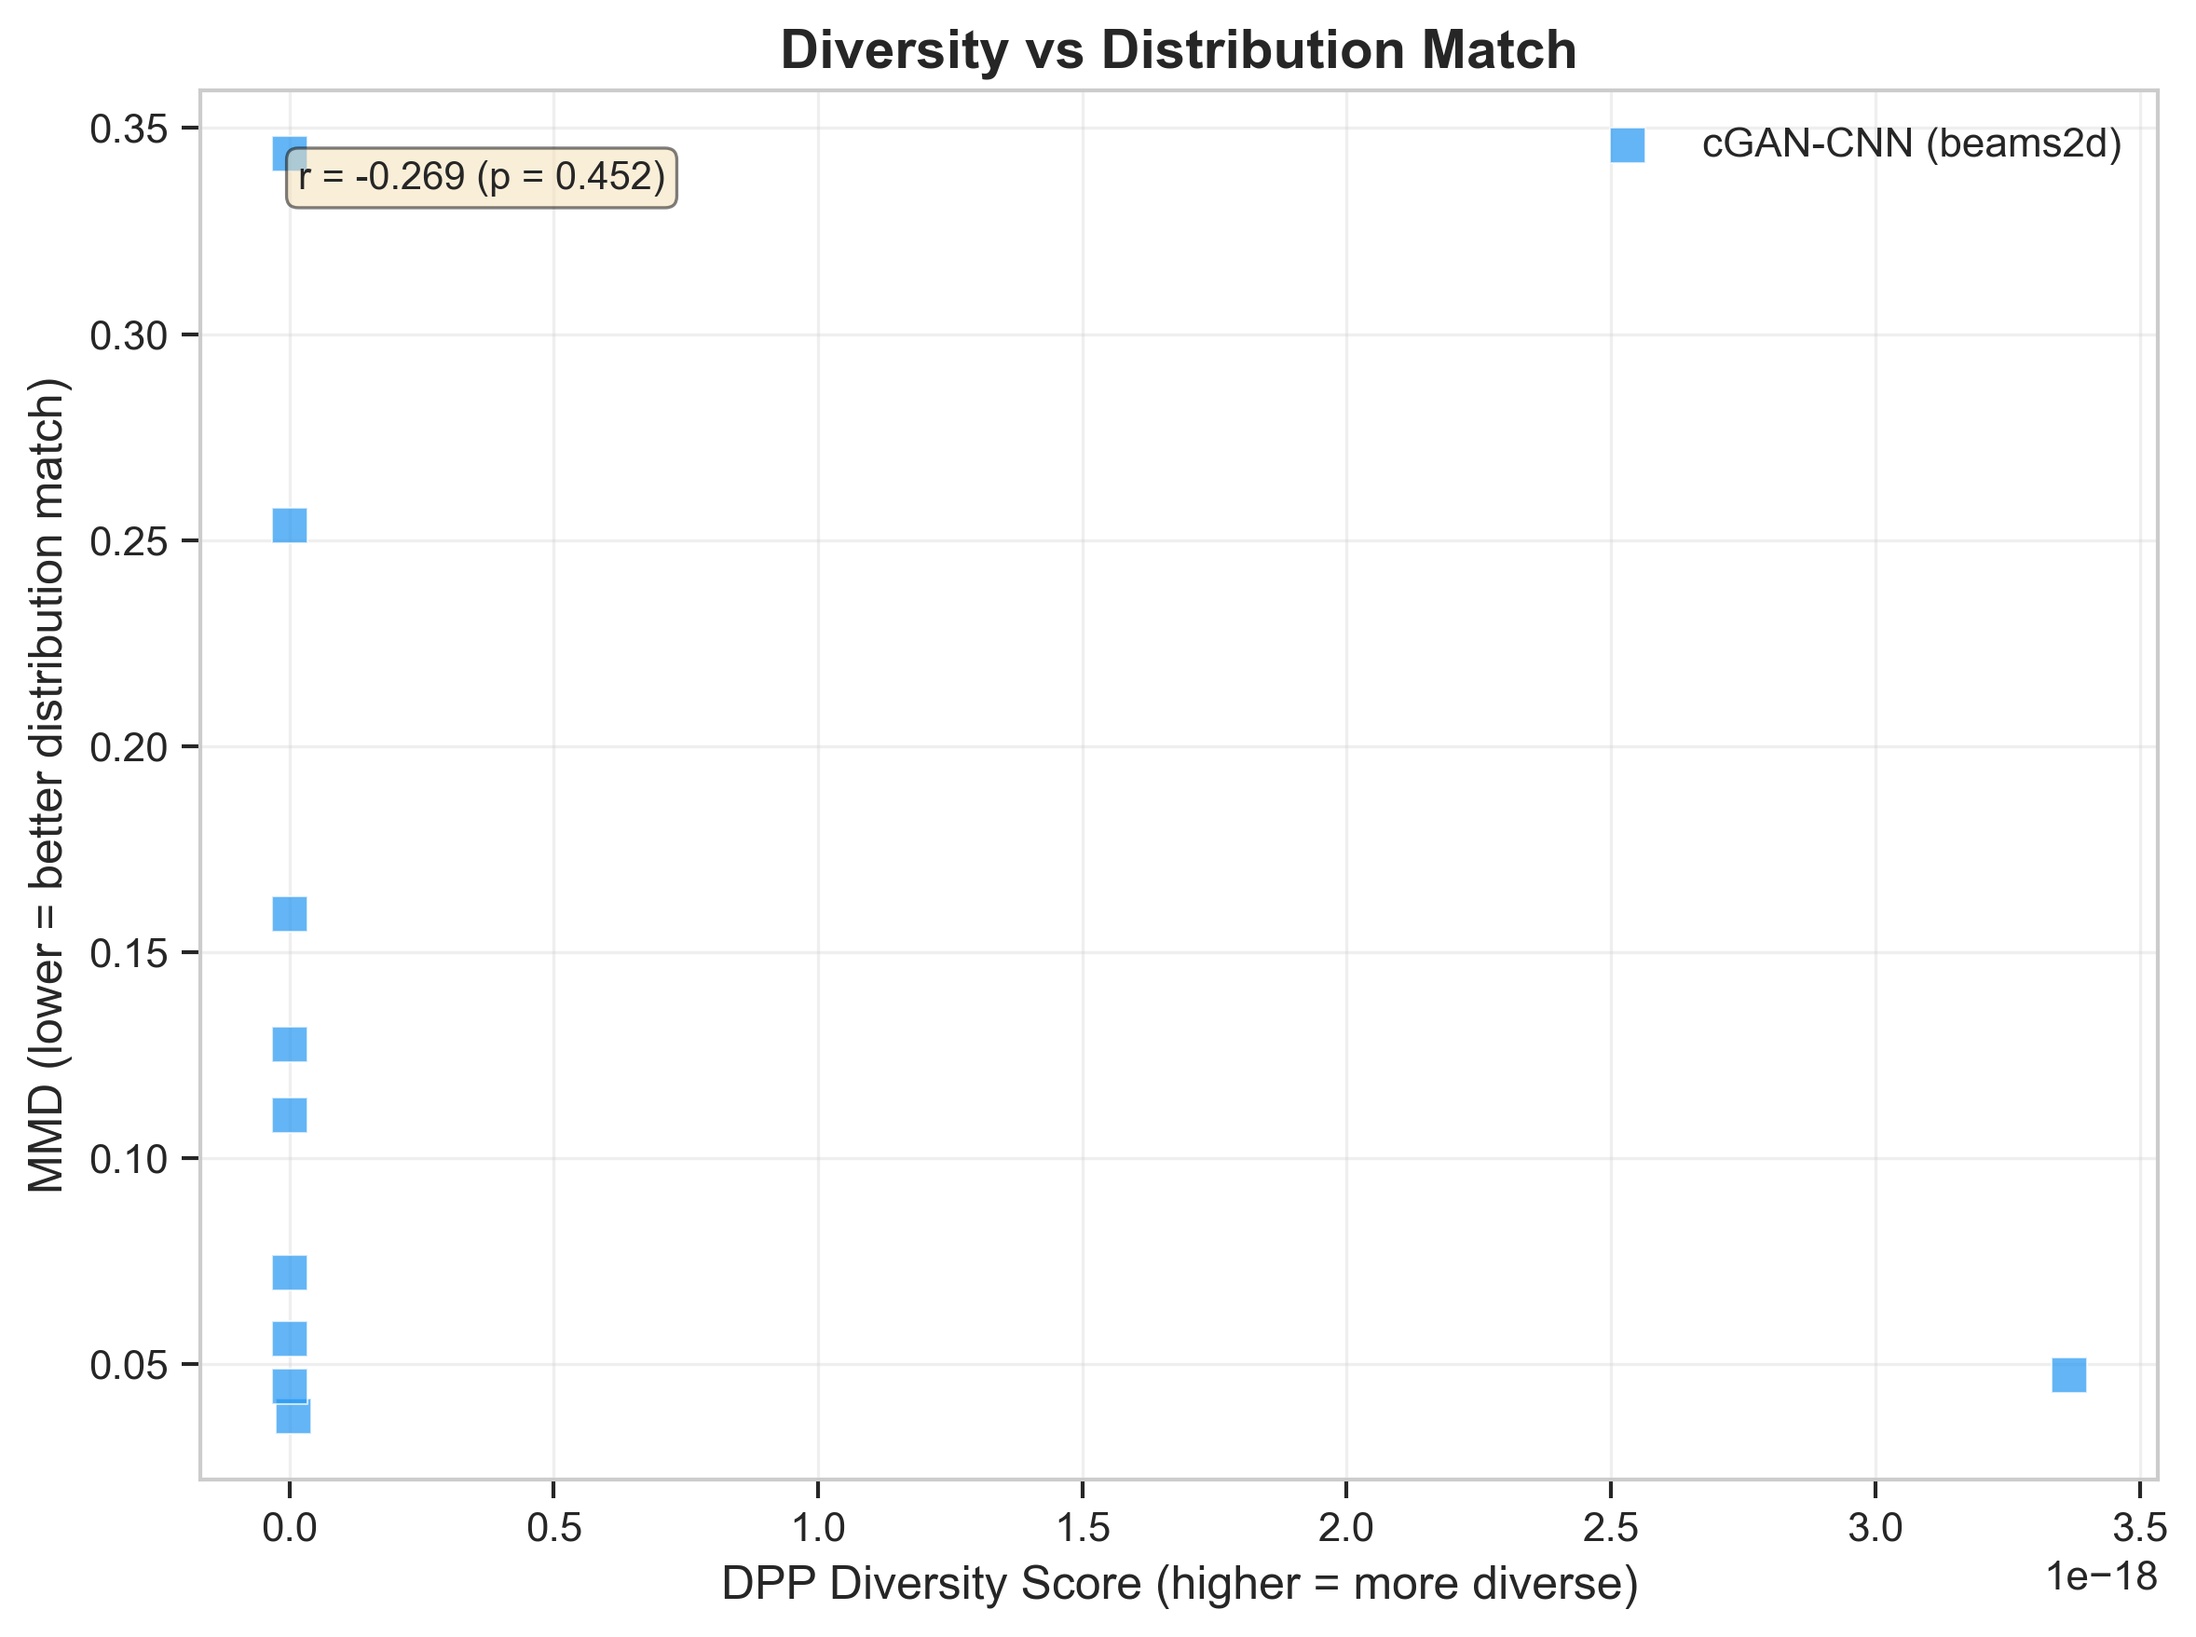
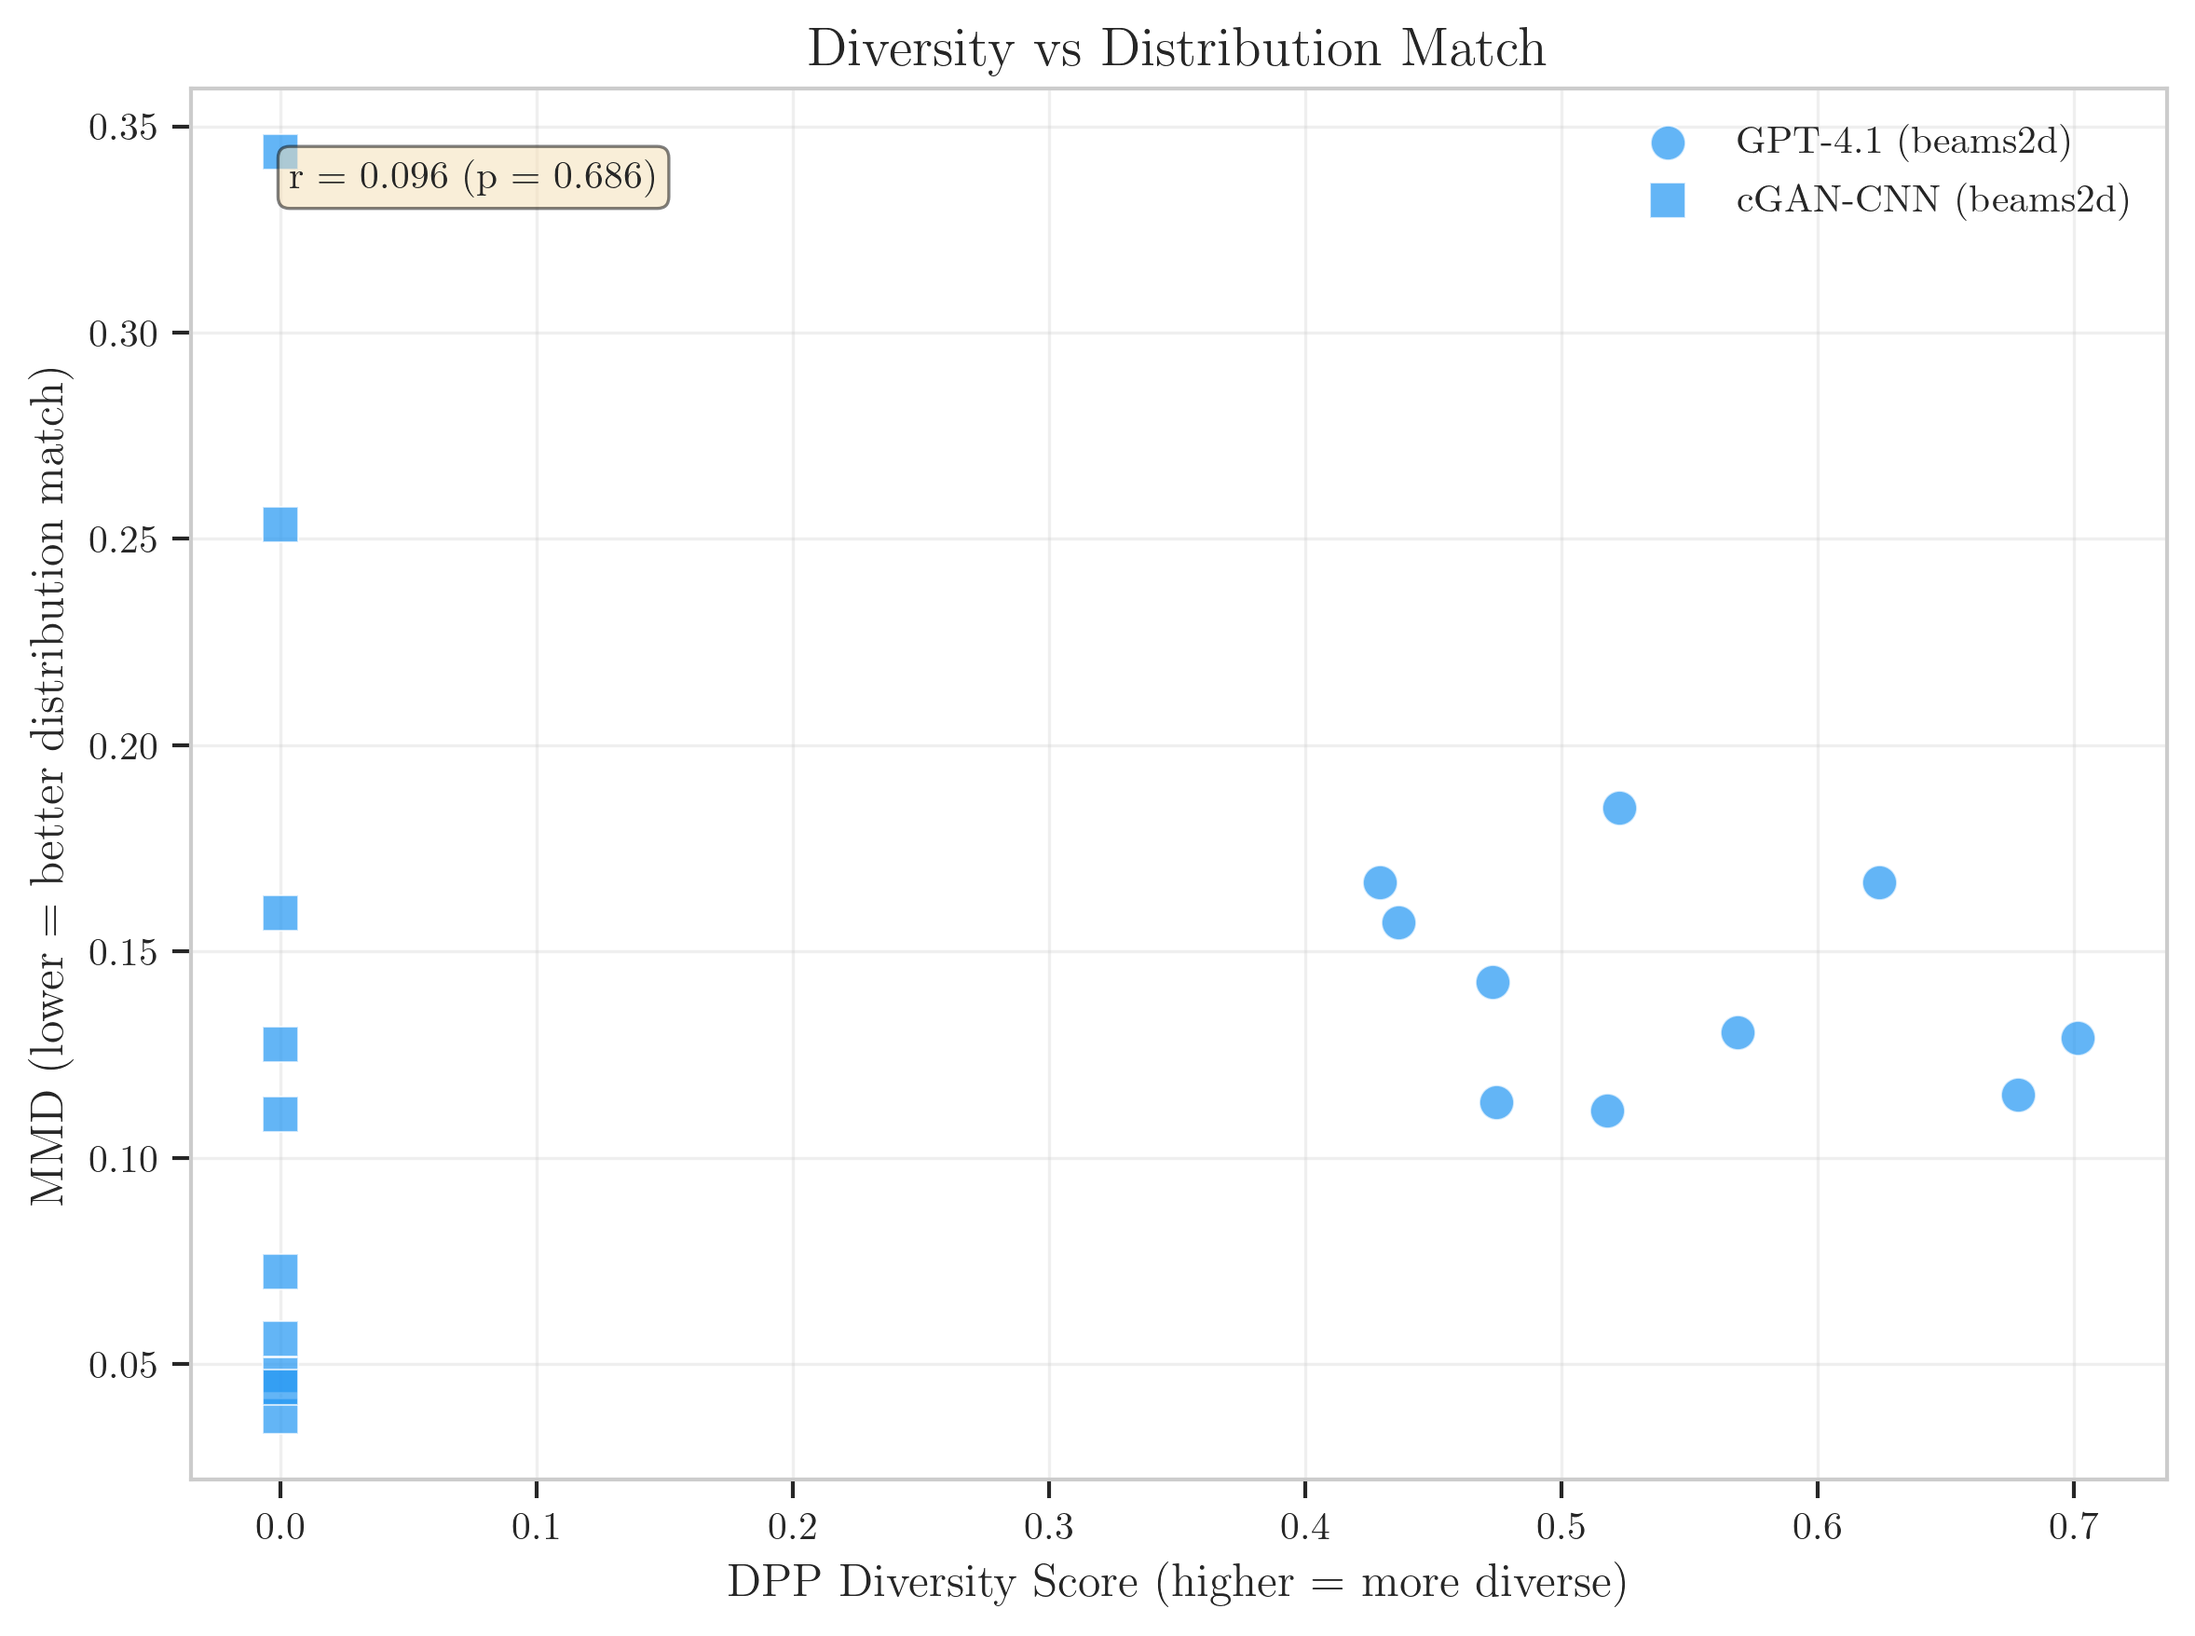
Use latex font

diff --git a/benchmarks/evaluations/plots/utils.py b/benchmarks/evaluations/plots/utils.py
@@ -6,6 +6,7 @@ Shared utilities for plots.
 - Plot styling
 """
 
+import shutil
 from pathlib import Path
 
 import matplotlib.pyplot as plt
@@ -13,7 +14,7 @@ import pandas as pd
 import seaborn as sns
 
 # Constants
-DEFAULT_N_SAMPLES = 5
+DEFAULT_N_SAMPLES = 10
 MIN_CORRELATION_SAMPLES = 2
 
 # Paths
@@ -53,10 +54,65 @@ PLOT_STYLE = {
 }
 
 
-def setup_style():
-    """Configure matplotlib/seaborn for publication-quality figures."""
+def _check_latex_available():
+    """Check if LaTeX is available on the system."""
+    return shutil.which("latex") is not None
+
+
+def setup_style(use_latex=None):
+    """Configure matplotlib/seaborn for publication-quality figures with LaTeX fonts.
+
+    Args:
+        use_latex: If True, force LaTeX. If False, disable LaTeX.
+                   If None (default), auto-detect LaTeX availability.
+    """
     plt.style.use("seaborn-v0_8-whitegrid")
     sns.set_context("paper", font_scale=1.2)
+
+    # Auto-detect LaTeX if not specified
+    if use_latex is None:
+        use_latex = _check_latex_available()
+
+    if use_latex:
+        try:
+            plt.rcParams.update(
+                {
+                    # Use LaTeX for text rendering
+                    "text.usetex": True,
+                    "font.family": "serif",
+                    "font.serif": ["Computer Modern Roman"],
+                    # LaTeX preamble for math support
+                    "text.latex.preamble": r"\usepackage{amsmath} \usepackage{amssymb}",
+                    # Consistent font sizes
+                    "axes.labelsize": 12,
+                    "axes.titlesize": 14,
+                    "xtick.labelsize": 10,
+                    "ytick.labelsize": 10,
+                    "legend.fontsize": 10,
+                    "figure.titlesize": 14,
+                }
+            )
+            print("Using LaTeX fonts for plots")
+        except Exception:
+            # Fall back if LaTeX setup fails
+            use_latex = False
+
+    if not use_latex:
+        # Clean serif style without LaTeX (looks similar)
+        plt.rcParams.update(
+            {
+                "text.usetex": False,
+                "font.family": "serif",
+                "mathtext.fontset": "cm",  # Computer Modern math fonts
+                "axes.labelsize": 12,
+                "axes.titlesize": 14,
+                "xtick.labelsize": 10,
+                "ytick.labelsize": 10,
+                "legend.fontsize": 10,
+                "figure.titlesize": 14,
+            }
+        )
+        print("Using serif fonts (LaTeX not available)")
 
 
 def get_output_dir():

diff --git a/benchmarks/evaluations/plots/figures/summary_statistics.tex b/benchmarks/evaluations/plots/figures/summary_statistics.tex
@@ -5,6 +5,7 @@
 \toprule
 Model & Problem & N & DPP & MMD & FOG & RVC \\
 \midrule
+GPT-4.1 & beams2d & 10 & 0.5425 ± 0.0975 & 0.1418 ± 0.0259 & 117.0812 ± 113.5176 & 0.0000 ± 0.0000 \\
 cGAN-CNN & beams2d & 10 & 0.0000 ± 0.0000 & 0.1252 ± 0.1019 & 4.7241 ± 10.0531 & 0.6720 ± 0.1589 \\
 \bottomrule
 \end{tabular}
